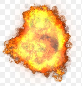
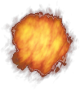
Adesão de novas imagens

diff --git a/Game.py b/Game.py
@@ -26,6 +26,22 @@ pygame.mixer.music.load("background.wav")
 pygame.mixer.music.play()
 
 
+class Player(pygame.sprite.Sprite):
+    def __init__(self):
+        super().__init__() 
+        self.image = pygame.image.load("Player.png")
+        self.surf = pygame.Surface((40, 75))
+        self.rect = self.surf.get_rect(center = (160, 520))
+       
+    def move(self):
+        pressed_keys = pygame.key.get_pressed()
+        if self.rect.left > 0:
+              if pressed_keys[K_LEFT]:
+                  self.rect.move_ip(-5, 0)
+        if self.rect.right < SCREEN_WIDTH:        
+              if pressed_keys[K_RIGHT]:
+                  self.rect.move_ip(5, 0)
+
 
 class Tree(pygame.sprite.Sprite,):
       def __init__(self, obstacle):
@@ -59,50 +75,49 @@ class Enemy(pygame.sprite.Sprite):
             self.rect.center = (random.randint(40, 400 - 40), 0)
 
 
-class Player(pygame.sprite.Sprite):
-    def __init__(self):
-        super().__init__() 
-        self.image = pygame.image.load("Player.png")
-        self.surf = pygame.Surface((40, 75))
-        self.rect = self.surf.get_rect(center = (160, 520))
-       
-    def move(self):
-        pressed_keys = pygame.key.get_pressed()
-        if self.rect.left > 0:
-              if pressed_keys[K_LEFT]:
-                  self.rect.move_ip(-5, 0)
-        if self.rect.right < SCREEN_WIDTH:        
-              if pressed_keys[K_RIGHT]:
-                  self.rect.move_ip(5, 0)
-                  
+class Enemy2(pygame.sprite.Sprite):
+      def __init__(self,obstacle):
+        super().__init__()
+        self.image = pygame.image.load(obstacle)
+        self.surf = pygame.Surface((42, 70))
+        self.rect = self.surf.get_rect(center = (random.randint(40,420-40)
+                                                 , 0))
 
-#Setting up Sprites        
+ 
+      def move(self):
+        global SCORE
+        self.rect.move_ip(0,SPEED + 1)
+        if (self.rect.top > 600):
+            SCORE += 1
+            self.rect.top = 0
+            self.rect.center = (random.randint(40, 400 - 40), 0)
+
+                
+
 max = Player()
 E1 = Enemy("Enemy.png")
-E2 = Tree("cacto_1.png")
+TREE1 = Tree("cacto_1.png")
+E2 = Enemy2("Enemy2.png")
 
-#Creating Sprites Groups
 enemies = pygame.sprite.Group()
 enemies.add(E1)
+enemies.add(E2)
 all_sprites = pygame.sprite.Group()
 all_sprites.add(max)
 all_sprites.add(E1)
+all_sprites.add(TREE1)
 all_sprites.add(E2)
 
-#Adding a new User event 
 INC_SPEED = pygame.USEREVENT + 1
 pygame.time.set_timer(INC_SPEED, 1000)
 
-#Game Loop
 while True:
-    #Cycles through all events occuring  
     for event in pygame.event.get():
-        if event.type == INC_SPEED:
+        if SCORE % 10 == 0:
               SPEED += 0.5      
         if event.type == QUIT:
             pygame.quit()
             sys.exit()
-
 
 
     DISPLAYSURF.blit(background, (0,0))
@@ -111,20 +126,22 @@ while True:
 
     for entity in all_sprites:
         DISPLAYSURF.blit(entity.image, entity.rect)
-        entity.move();
+        print(entity.rect)
+        entity.move()
 
-    if pygame.sprite.spritecollideany(max, enemies):
-          pygame.mixer.Sound('crash.wav').play()
-          DISPLAYSURF.blit(max.image,(150,-200))
-          time.sleep(2)     
-          DISPLAYSURF.fill(RED)
-          DISPLAYSURF.blit(game_over, (30,250))
-          pygame.display.update()
-          for entity in all_sprites:
-                entity.kill() 
-          time.sleep(2)
-          pygame.quit()
-          sys.exit()
+    # if pygame.sprite.spritecollideany(max, enemies):
+    if max.rect[1] in range(E1.rect[1], E1.rect[-1]) or max.rect[-1] in range(E1.rect[1], E1.rect[-1]):
+        pygame.mixer.Sound('crash.wav').play()
+        max.image = pygame.image.load('explosion.png')
+        DISPLAYSURF.blit(max.image, max.rect)
+        pygame.display.update()
+        time.sleep(2)     
+        DISPLAYSURF.fill(RED)
+        DISPLAYSURF.blit(game_over, (30,250))
+        pygame.display.update()
+        time.sleep(2)
+        pygame.quit()
+        sys.exit()
 
           
                   
